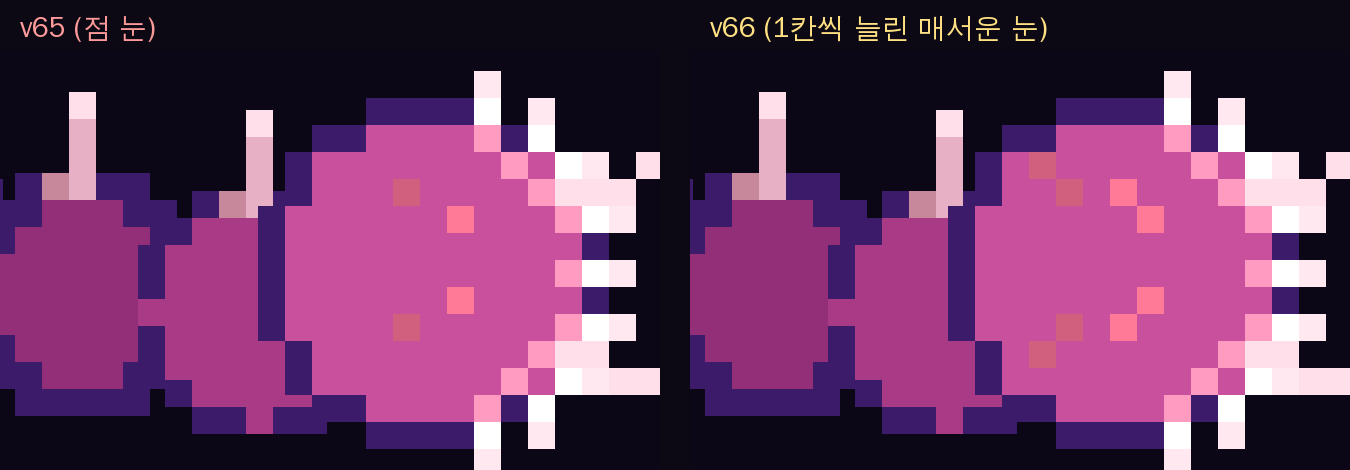
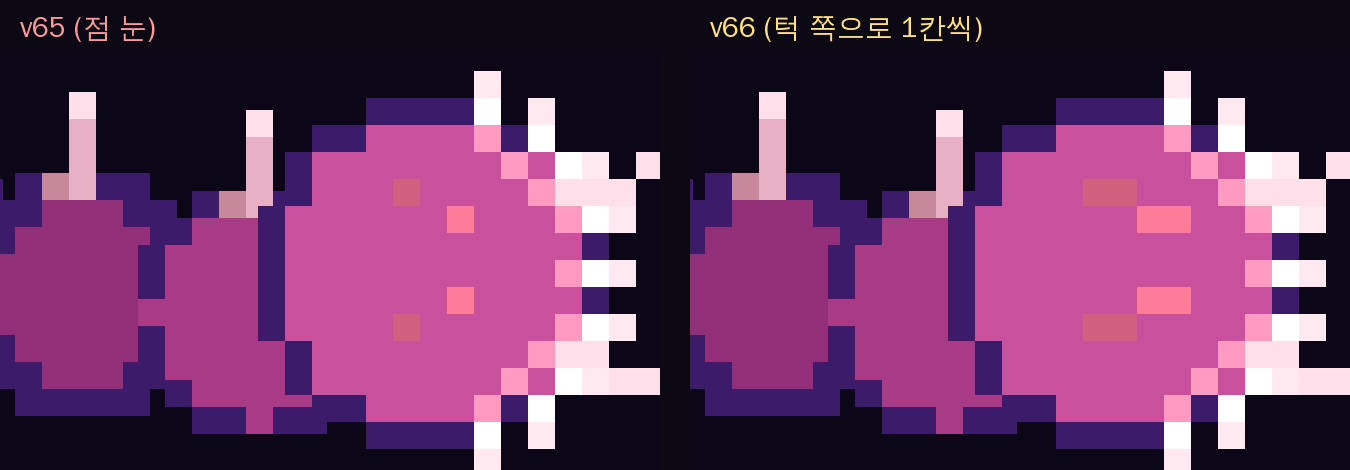
v66 수정: 포식 눈을 대각선 대신 턱 쪽으로 1칸씩
Claude-Session: https://claude.ai/code/session_01N8ASC1LkgouQjv8iN6UUFE

Changed region(s): [[0.7467, 0.5957, 0.9022, 0.8043], [0.7467, 0.3277, 0.9022, 0.5064], [0.56, 0.0298, 0.7778, 0.0894]]

diff --git a/index.html b/index.html
@@ -74,7 +74,7 @@ function skinTex(s,key,L){if(s.textures.exists('wh_'+key))return;
   if(L.c>=1){const t=L.c;skCry(px,x,c-2,c-r+1,-1.97,t>=3?3.8:3,t>=3?1.3:1.2);if(t>=2){skCry(px,x,c-2,c+r-1,1.97,t>=3?3.4:3,t>=3?1.05:1.2);skCry(px,x,c+1.5,c-r+1.5,-1.45,2,.9)}if(t>=3){skCry(px,x,c-4,c-r+2,-2.4,2.6,.9);skCry(px,x,c+.5,c+r-1,1.6,1.9,.8);for(const[a,b]of[[-1,1],[1,-1],[-3,0]])px(x,c+a,c+b,'#bfeaff')}}
   if(L.p>=1&&!nj){ln(x,c+r-1,c-3,c+r+3,c-4,'#ffe0ea');ln(x,c+r+3,c-4,c+r+4,c-1,'#ffe0ea');ln(x,c+r-1,c+3,c+r+3,c+4,'#ffe0ea');ln(x,c+r+3,c+4,c+r+4,c+1,'#ffe0ea')}
   if(L.p>=3){for(let a=-1.25;a<=1.2501;a+=.31){const cx=Math.cos(a),sy=Math.sin(a);px(x,c+cx*(r-.6),c+sy*(r-.6),'#ff9ac0');for(let k=.6;k<=1.8;k+=.8)px(x,c+cx*(r+k),c+sy*(r+k),k+.8>1.8?'#ffe8f0':'#ffffff')}}
-  const ec=L.p>=2?'#ff5a7a':'#ffffff';if(L.p>=3){px(x,c+1,c-2,'#ff7a96');px(x,c,c-3,'#ff7a96');px(x,c+1,c+1,'#ff7a96');px(x,c,c+2,'#ff7a96');px(x,c-2,c-3,'#d0607e');px(x,c-3,c-4,'#d0607e');px(x,c-2,c+2,'#d0607e');px(x,c-3,c+3,'#d0607e')}else{px(x,c+2,c-2,ec);px(x,c+2,c+1,ec)}
+  const ec=L.p>=2?'#ff5a7a':'#ffffff';if(L.p>=3){px(x,c+1,c-2,'#ff7a96');px(x,c+2,c-2,'#ff7a96');px(x,c+1,c+1,'#ff7a96');px(x,c+2,c+1,'#ff7a96');px(x,c-1,c-3,'#d0607e');px(x,c,c-3,'#d0607e');px(x,c-1,c+2,'#d0607e');px(x,c,c+2,'#d0607e')}else{px(x,c+2,c-2,ec);px(x,c+2,c+1,ec)}
   if(L.v>=1){disc(x,c-1,c,1.9,'#ffe0ff');disc(x,c-1,c,1.1,'#c070ff');px(x,c-1,c,'#fff')}
   if(L.v>=2){disc(x,c-1,c-r-2.2,1.3,'#c070ff');px(x,c-1,c-r-2,'#f0c8ff');disc(x,c-1,c+r+2.2,1.3,'#c070ff');px(x,c-1,c+r+2,'#f0c8ff')}};tex(s,'wh_'+key,24,24,2,HF(0));tex(s,'whj_'+key,24,24,2,HF(1));
  [3.6,3.2,2.6,2].forEach((r0,i)=>tex(s,'ws'+(i+1)+'_'+key,20,20,2,x=>{const c=10,r=r0*(1+(L.p>=2?.12:0)+(L.c>=3?.06:0));

diff --git a/dev/v66/v66_patch.py b/dev/v66/v66_patch.py
@@ -1,5 +1,5 @@
 #!/usr/bin/env python3
-"""v65 -> v66: 포식 3단계 눈 4개를 1칸씩 비스듬히 늘림 (뒤 위 → 앞 아래로 비스듬한 짧은 눈 4개, 매서운 눈매)
+"""v65 -> v66: 포식 3단계 눈 4개를 1칸씩 비스듬히 늘림 (대각선이 아니라 턱 쪽으로 1칸씩 — 가로로 긴 매서운 눈매)
 사용: python3 dev/v66/v66_patch.py index.html"""
 import sys
 P = sys.argv[1] if len(sys.argv) > 1 else 'index.html'
@@ -12,6 +12,6 @@ def rep(old, new, cnt=1):
 rep('<title>공허 기생충 v65</title>', '<title>공허 기생충 v66</title>')
 rep("window.VP_VER='v65';", "window.VP_VER='v66';")
 rep("if(L.p>=3){px(x,c+1,c-2,'#ff7a96');px(x,c+1,c+1,'#ff7a96');px(x,c-1,c-3,'#d0607e');px(x,c-1,c+2,'#d0607e')}",
-    "if(L.p>=3){px(x,c+1,c-2,'#ff7a96');px(x,c,c-3,'#ff7a96');px(x,c+1,c+1,'#ff7a96');px(x,c,c+2,'#ff7a96');px(x,c-2,c-3,'#d0607e');px(x,c-3,c-4,'#d0607e');px(x,c-2,c+2,'#d0607e');px(x,c-3,c+3,'#d0607e')}")
+    "if(L.p>=3){px(x,c+1,c-2,'#ff7a96');px(x,c+2,c-2,'#ff7a96');px(x,c+1,c+1,'#ff7a96');px(x,c+2,c+1,'#ff7a96');px(x,c-1,c-3,'#d0607e');px(x,c,c-3,'#d0607e');px(x,c-1,c+2,'#d0607e');px(x,c,c+2,'#d0607e')}")
 open(P, 'w', encoding='utf-8').write(s)
 print('ok', P, len(s))

diff --git a/DEVLOG.md b/DEVLOG.md
@@ -565,7 +565,8 @@
 - 확인: 포식 3단계 물기 캡처, 최종 보스 1판 · JS 오류 0.
 
 ## 50. v66에서 한 일 (2026-11-21) — 포식 3단계 눈 매섭게
-개발자 요청(2026-11-21): 포식 눈 도트를 1칸씩 늘려 매서운 눈처럼. 패치 `dev/v66/v66_patch.py`: 눈 4개를 각각 1칸씩 뒤 위쪽으로 늘려 비스듬한 2칸 눈매(앞 둘 (c,c∓3)-(c+1,c-2/c+1) · 뒤 둘 (c-3,c∓4)-(c-2,c∓3)). 처음 시도(앞쪽으로 늘림)는 앞 두 눈이 '>'로 붙어 버려 방향을 바꿈. 비교 `docs/v65/eyes_v66.png`.
+개발자 요청(2026-11-21): 포식 눈 도트를 1칸씩 늘려 매서운 눈처럼 → (대각선으로 늘린 첫 시도 후) '대각선 말고 턱을 기준으로 밑으로 1칸씩만'.
+패치 `dev/v66/v66_patch.py`: v65 점 눈 4개를 각각 턱 쪽(앞, +x)으로 1칸씩 늘려 가로 2칸 눈(앞 둘 연한 빨강 · 뒤 둘 흐리게). 비교 `docs/v65/eyes_v66.png`.
 
 ## 51. 다음 할 일 (우선순위)
 0. 폰에서 v56 확인 — 물기 이빨 자국(S3) 체감, 배고픔 없는 체감(너무 쉬워지지 않는지), 땅울음 (공개 링크 = v56)

diff --git a/HANDOFF.md b/HANDOFF.md
@@ -40,7 +40,7 @@
 | v51 | (이번 PR) | 물기 전진 **맞았을 때만 0.06초(~6px)** · 땅울음 `rkBurst`(흔들림 170px 안만 약하게 + 땅 갈라짐) · 턱 모션 시안 J1~J3(`jawDraw`, `window.__vpJaw`) |
 | v52 | (이번 PR) | 턱 모션 **J1 송곳니 한 쌍 확정**, 크기 줄임(길이 12→8), J2·J3 삭제 |
 | v53 | (이번 PR) | 송곳니 **교차 0**(`fangPts` 곡선 재정의, 테두리 포함 틈 ≥ 3.5px, `tools/fanggap.js`로 측정) |
-| v66 | (PR #10) | 포식 3단계 눈 4개를 비스듬한 2칸으로 |
+| v66 | (PR #10) | 포식 3단계 눈 4개를 턱 쪽으로 1칸씩(가로 2칸) |
 | v65 | (PR #10) | 포식 3단계 E-a 이빨 왕관 + 작은 눈 4개 · 분홍 입/비치는 몸 삭제 |
 | v64 | (PR #10) | 포식 3단계 D+F(wh_ 그림 + `pjU` 분홍 입 + 마디 비침) · 공명 갑각 결정 −25% · 갑각 이동 −4%/단계 |
 | v63 | (PR #10) | 갑각 A 결정이 박힘(`skCry`) · 포식 3단계 시안 D~F `docs/v63/` (선택 대기) · 갑각 차지 모션 변경 보류 |

diff --git a/README.md b/README.md
@@ -60,7 +60,7 @@
 
 ## 변경 기록
 
-- **v66** 포식 3단계 눈을 비스듬한 2칸 눈매로 (매섭게)
+- **v66** 포식 3단계 눈을 턱 쪽으로 1칸씩 늘린 가로 2칸 눈으로 (매섭게)
 - **v65** 포식 3단계: 머리 앞 이빨 왕관 + 작은 눈 4개, 마디는 원래 가시
 - **v64** 포식 3단계: 분홍 목구멍 + 삼킨 것이 비치는 몸 · 공명 갑각 결정 작게 · 갑각은 단계마다 이동 속도 −4%
 - **v63** 갑각 모습: 먹은 결정이 머리·마디에서 돋아남(단계마다 늘어남) · 포식 3단계 시안 2(선택 대기)
